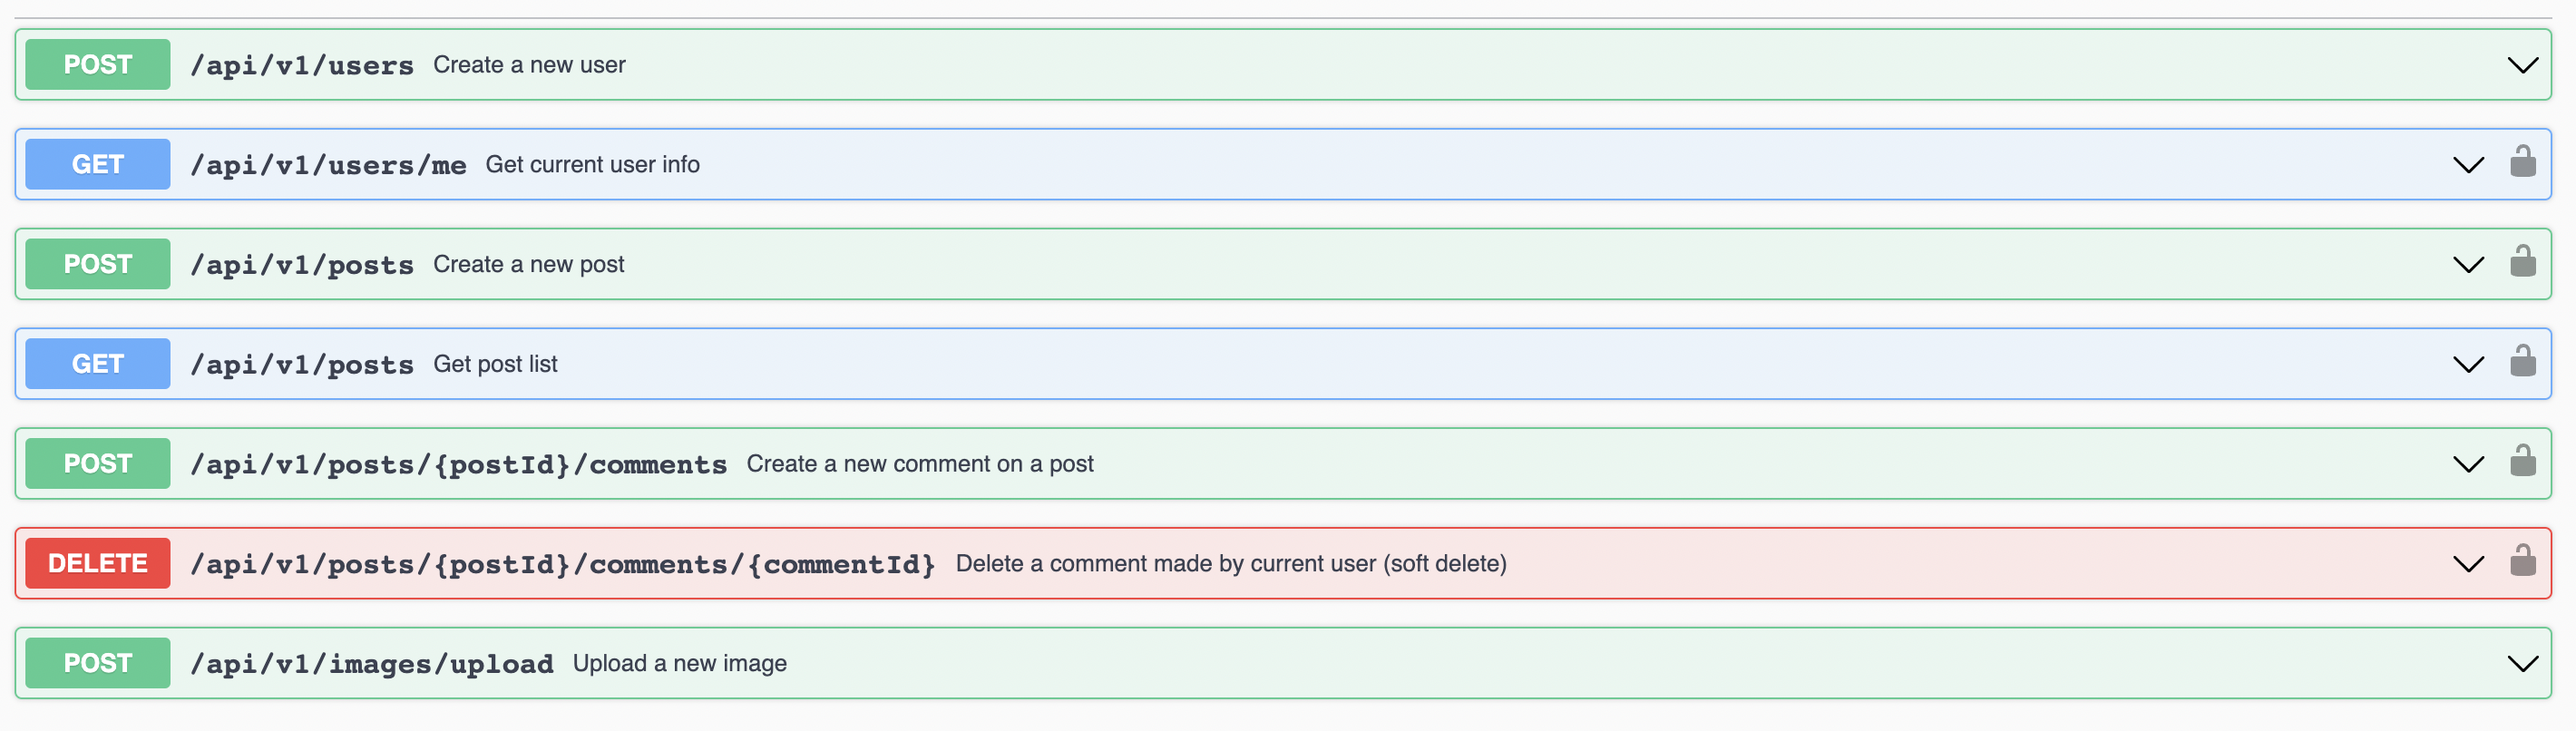
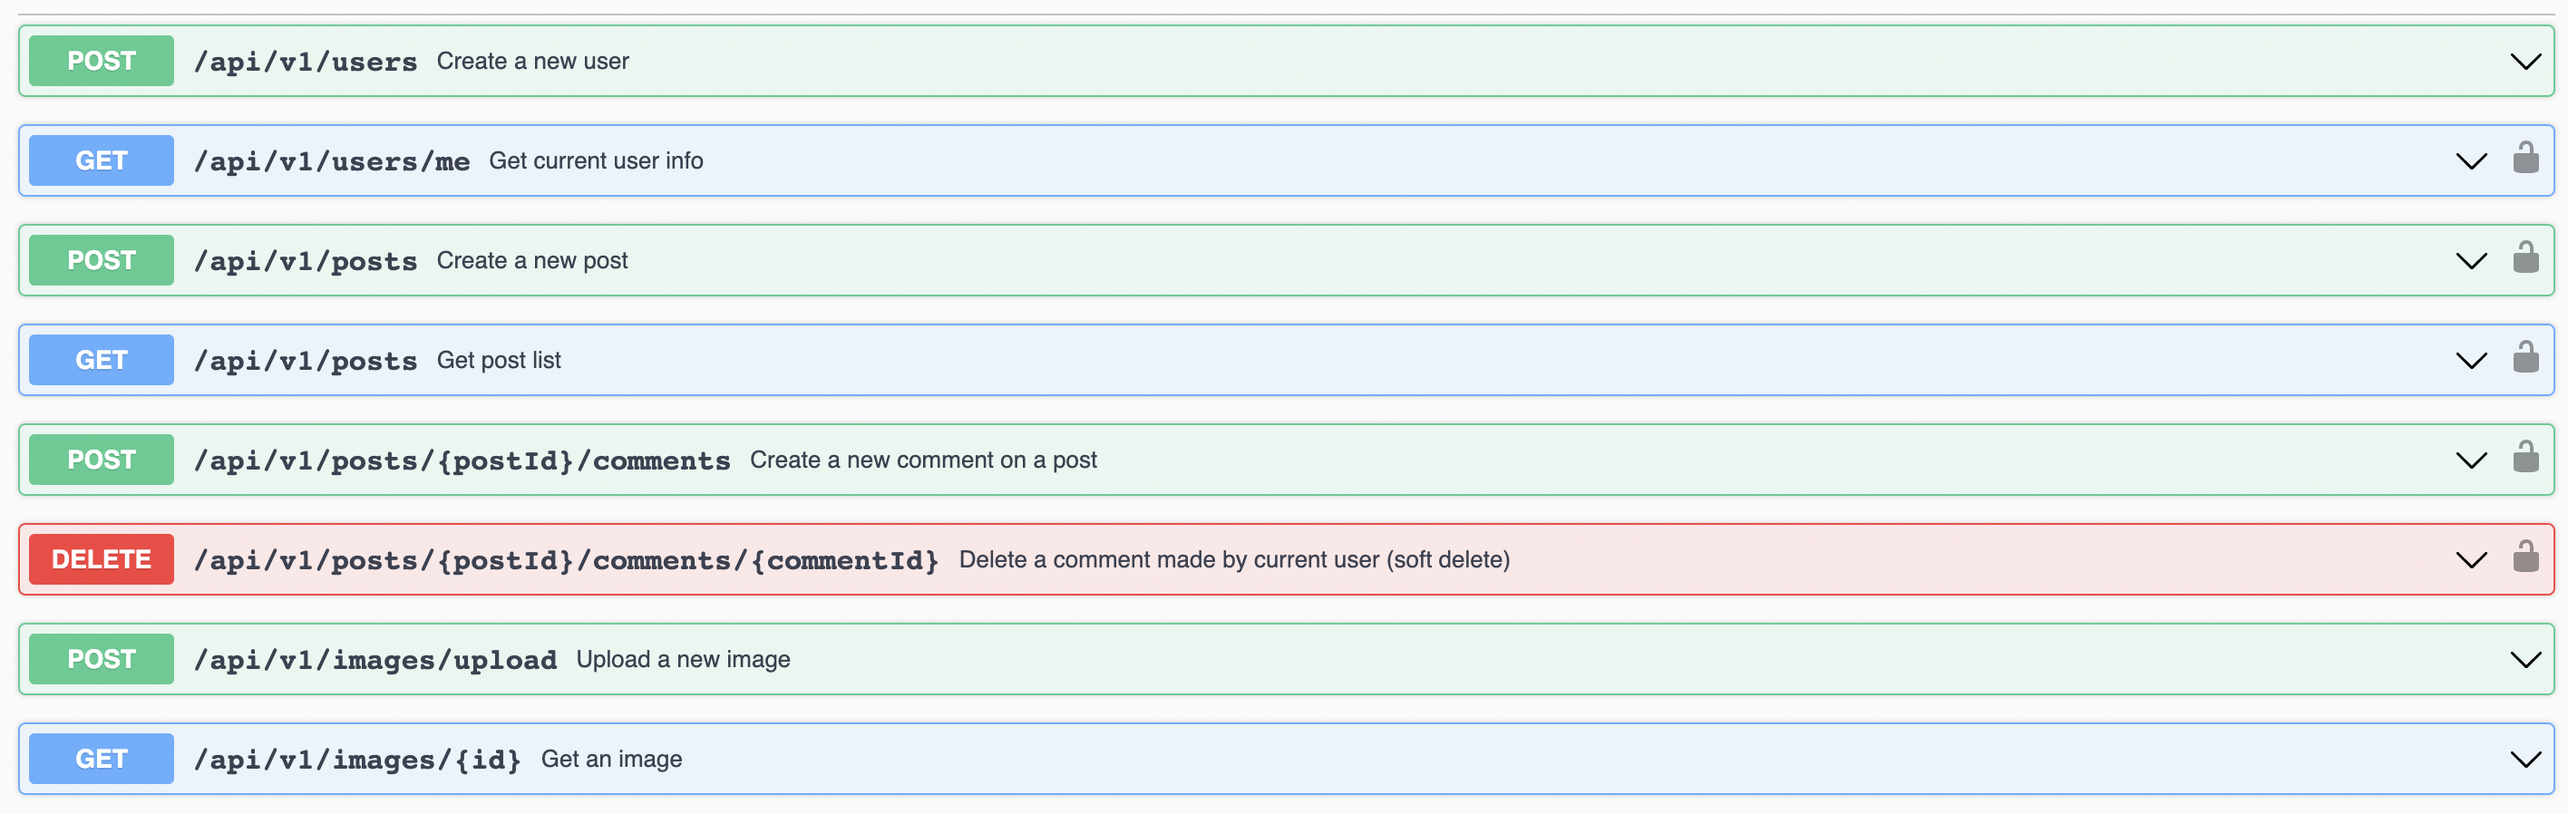
Update API to get image

Changed region(s): [[0.0, 0.0, 1.0, 0.9926]]

diff --git a/src/modules/images/images.controller.ts b/src/modules/images/images.controller.ts
@@ -5,6 +5,10 @@ import {
   UploadedFile,
   UseGuards,
   BadRequestException,
+  Res,
+  HttpStatus,
+  Get,
+  Param,
 } from "@nestjs/common";
 import { ImagesService } from "./images.service";
 import { FileInterceptor } from "@nestjs/platform-express";
@@ -16,6 +20,7 @@ import { Queue } from "bull";
 import { mimeTypeFilter } from "src/filters/mime-type.filter";
 import { QueueNames } from "src/enums/queue-names.enum";
 import { ApiOperation, ApiTags } from "@nestjs/swagger";
+import { Response } from "express";
 
 @UseGuards(AuthGuard)
 @Controller("images")
@@ -38,6 +43,7 @@ export class ImagesController {
   )
   @ApiOperation({ summary: "Upload a new image" })
   async create(
+    @Res() res: Response,
     @UploadedFile() file: Express.Multer.File,
     @RequestUser() user: User,
   ) {
@@ -47,17 +53,23 @@ export class ImagesController {
       user.id,
     );
 
-    // Add a job to processing queue
-    this.imageQueue.add(
-      "resizeAndUpload",
-      { imageId: image.id, bufferStr: file.buffer.toString("base64") },
-      { removeOnComplete: true },
-    );
-
     /* 
     Return image record, the client can do some form of 
     polling to get image url when it's done
     */
-    return image;
+    res.status(HttpStatus.CREATED).json(image);
+
+    // Add a job to processing queue
+    await this.imageQueue.add(
+      "resizeAndUpload",
+      { imageId: image.id, bufferStr: file.buffer.toString("base64") },
+      { removeOnComplete: true },
+    );
+  }
+
+  @Get(":id")
+  @ApiOperation({ summary: "Get an image" })
+  async get(@Param("id") id: string) {
+    return this.imagesService.findOne(id);
   }
 }

diff --git a/src/modules/comments/comments.service.ts b/src/modules/comments/comments.service.ts
@@ -17,7 +17,7 @@ export class CommentsService {
     createCommentDto: CreateCommentDto,
     postId: string,
     authorId: string,
-  ) {
+  ): Promise<Comment> {
     const queryRunner = this.commentRepo.manager.connection.createQueryRunner();
 
     /* START TRANSACTION */
@@ -48,11 +48,11 @@ export class CommentsService {
     /* END TRANSACTION */
   }
 
-  findOne(id: string) {
+  findOne(id: string): Promise<Comment> {
     return this.commentRepo.findOneBy({ id, deletedAt: null });
   }
 
-  async delete(commentId: string) {
+  async delete(commentId: string): Promise<boolean> {
     const queryRunner = this.commentRepo.manager.connection.createQueryRunner();
 
     /* START TRANSACTION */

diff --git a/src/modules/images/images.service.ts b/src/modules/images/images.service.ts
@@ -12,7 +12,10 @@ export class ImagesService {
     private imageRepo: Repository<Image>,
   ) {}
 
-  async create(createImageDto: CreateImageDto, authorId: string) {
+  async create(
+    createImageDto: CreateImageDto,
+    authorId: string,
+  ): Promise<Image> {
     const newImage = this.imageRepo.create({
       ...createImageDto,
       id: genId(),
@@ -20,5 +23,9 @@ export class ImagesService {
     });
     await this.imageRepo.insert(newImage);
     return newImage;
+  }
+
+  findOne(id: string): Promise<Image> {
+    return this.imageRepo.findOneBy({ id });
   }
 }

diff --git a/src/modules/posts/posts.service.ts b/src/modules/posts/posts.service.ts
@@ -18,7 +18,7 @@ export class PostsService {
     private configService: ConfigService,
   ) {}
 
-  async create(createPostDto: CreatePostDto, authorId: string) {
+  async create(createPostDto: CreatePostDto, authorId: string): Promise<Post> {
     const newPost = this.postRepo.create({
       ...createPostDto,
       id: genId(),
@@ -28,7 +28,7 @@ export class PostsService {
     return newPost;
   }
 
-  findOne(id: string) {
+  findOne(id: string): Promise<Post> {
     return this.postRepo.findOneBy({ id });
   }
 
